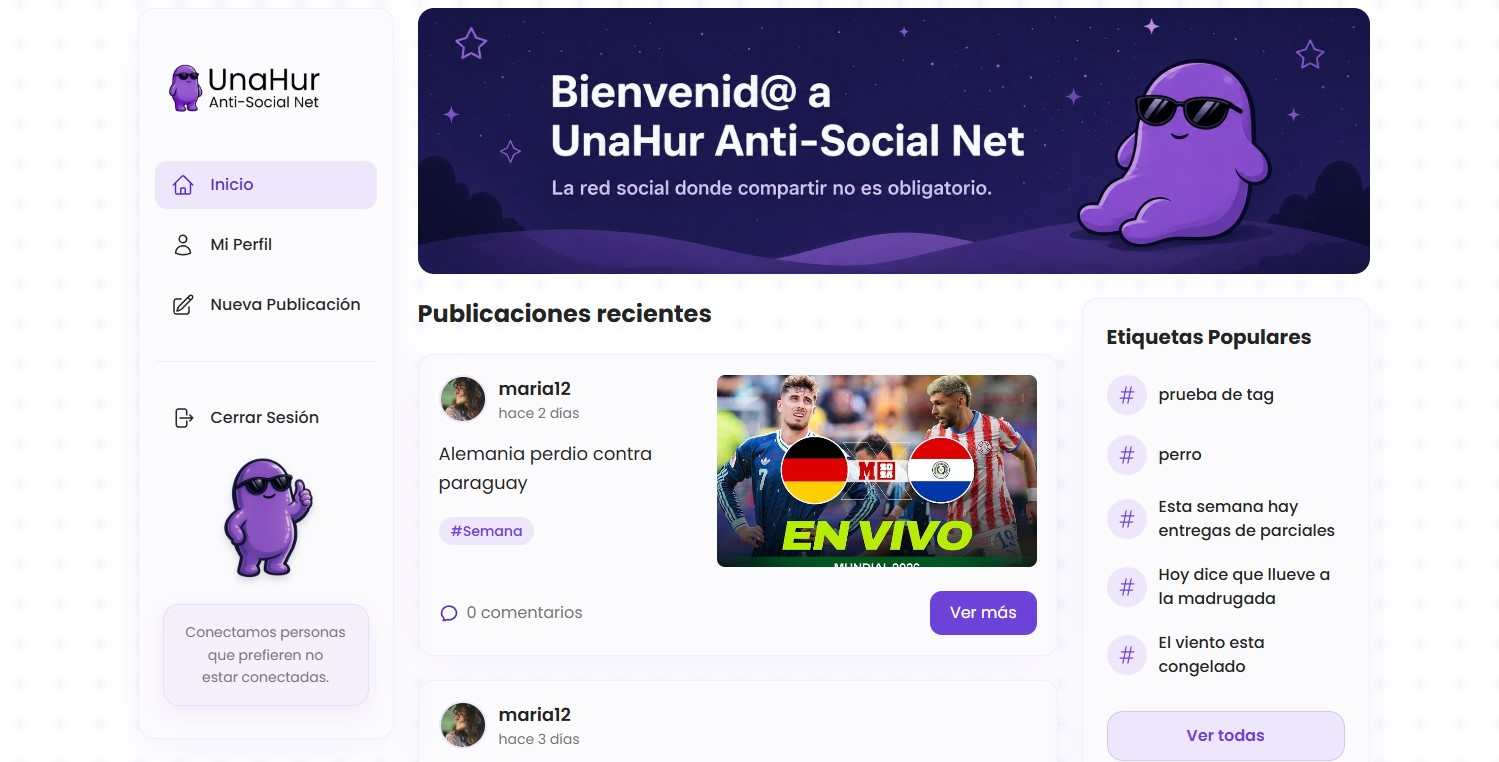
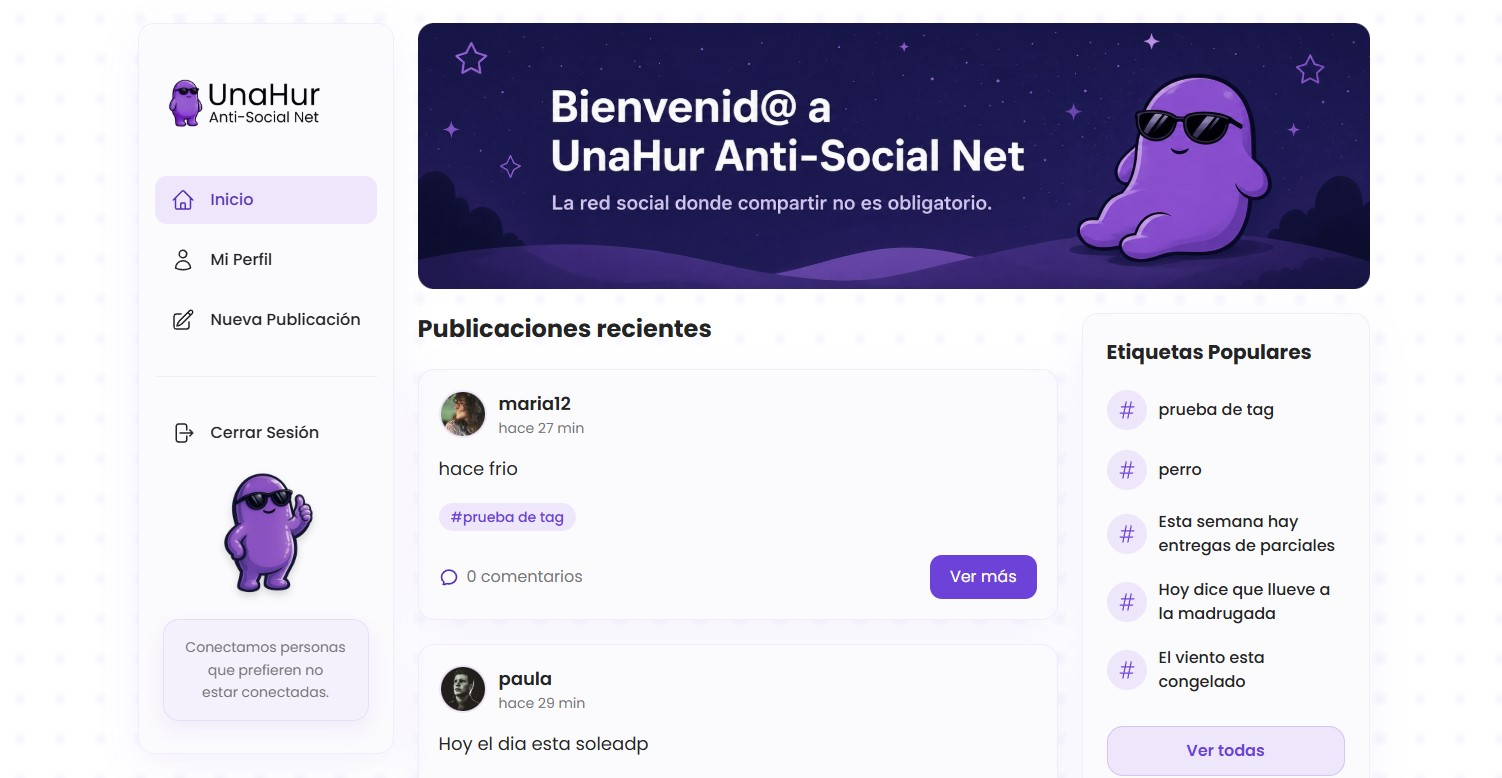
añadido el detalle de la publicacion

diff --git a/README.md b/README.md
@@ -136,18 +136,21 @@ http://localhost:5173
 └── vite.config.ts
 ```
 ## Screenshots
-Pagina de bienvenida
+
+## Pagina de bienvenida
 ![logo](src/screenshots/welcome.jpg)
-Login
+## Login
 ![logo](src/screenshots/login.jpg)
-Registro
+## Registro
 ![logo](src/screenshots/registro.jpg)
-Home
+## Home
 ![logo](src/screenshots/home.jpg)
-Mi perfil
+## Mi perfil
 ![logo](src/screenshots/mi-perfil.jpg)
-nueva publicacion
+## nueva publicacion
 ![logo](src/screenshots/nueva-publicacion.jpg)
+## Detalle publicacion
+![logo](src/screenshots/detalle-publicacion.jpg)
 ## Integrantes
 
 | Nombre | GitHub |
